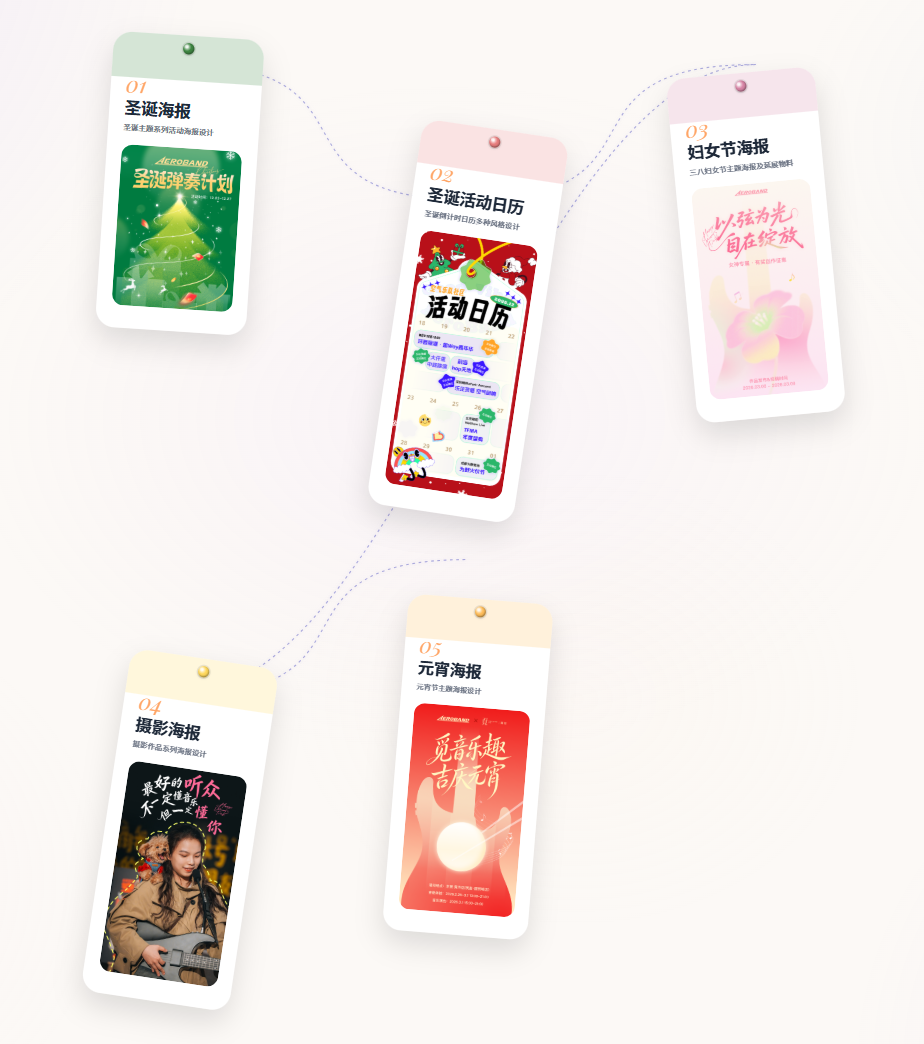
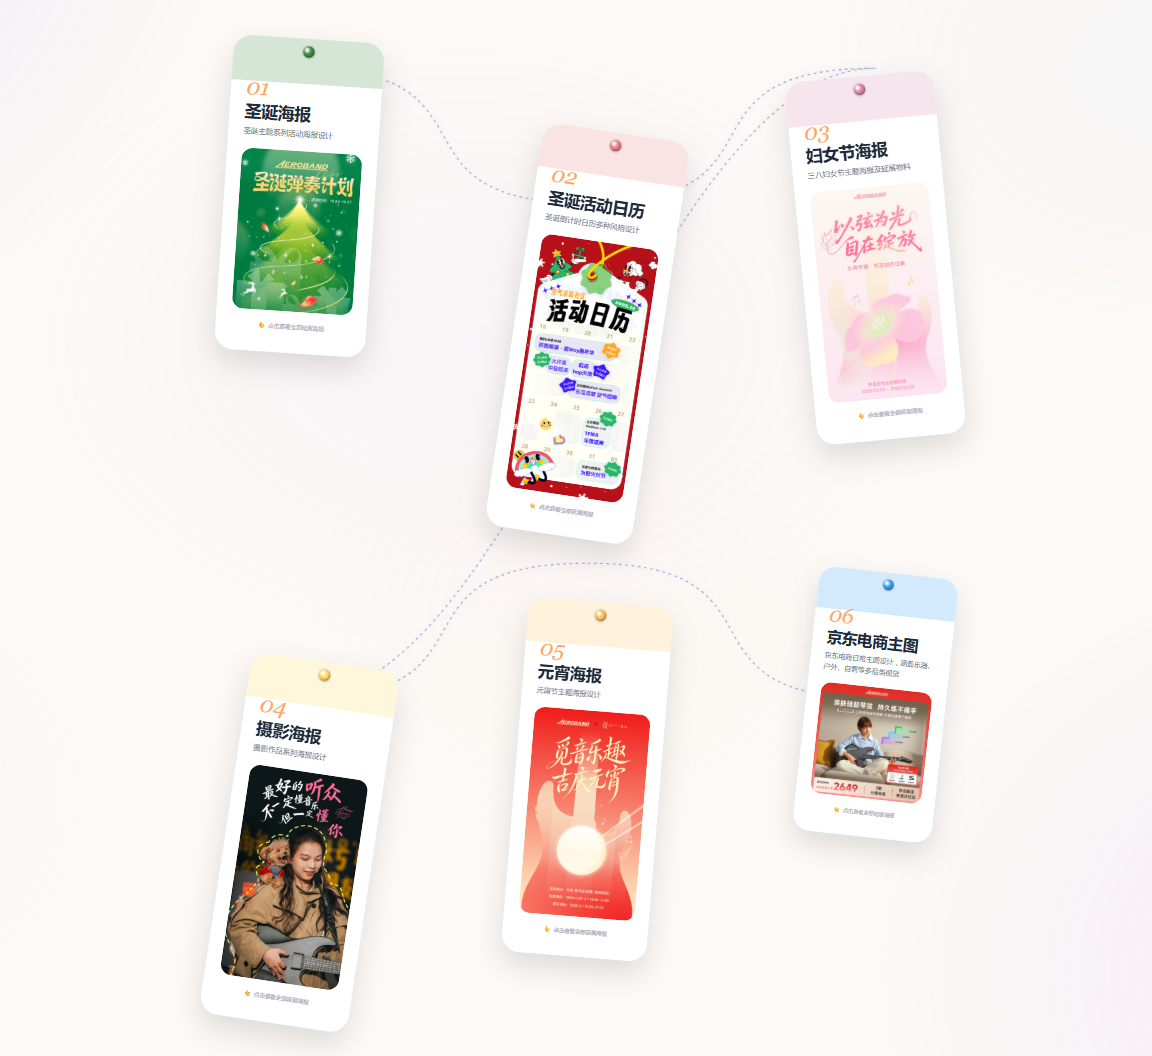
feat: add JD e-commerce poster theme to poster-collection board
- Add jd-ecommerce sticky note with 1 main + 6 extension posters
- Replace poster-collection cover image
- Compress all images to WebP (16.2MB → 972KB, 94% reduction)

diff --git a/src/components/poster-board/data.ts b/src/components/poster-board/data.ts
@@ -8,7 +8,7 @@ export const THEMES: PosterTheme[] = [
     mainPoster: {
       id: 'christmas-main',
       title: '圣诞主海报',
-      imageUrl: '/posters/christmas/main.png',
+      imageUrl: '/posters/christmas/main.webp',
       width: 800,
       height: 1200,
     },
@@ -16,14 +16,14 @@ export const THEMES: PosterTheme[] = [
       {
         id: 'christmas-playlist',
         title: '歌单',
-        imageUrl: '/posters/christmas/playlist.png',
+        imageUrl: '/posters/christmas/playlist.webp',
         width: 800,
         height: 1200,
       },
       {
         id: 'christmas-event',
         title: '活动详情',
-        imageUrl: '/posters/christmas/event-detail.png',
+        imageUrl: '/posters/christmas/event-detail.webp',
         width: 800,
         height: 1200,
       },
@@ -37,7 +37,7 @@ export const THEMES: PosterTheme[] = [
     mainPoster: {
       id: 'advent-main',
       title: '活动日历海报',
-      imageUrl: '/posters/advent-calendar/main.png',
+      imageUrl: '/posters/advent-calendar/main.webp',
       width: 800,
       height: 1200,
     },
@@ -45,21 +45,21 @@ export const THEMES: PosterTheme[] = [
       {
         id: 'advent-style-1',
         title: '风格一',
-        imageUrl: '/posters/advent-calendar/style-1.png',
+        imageUrl: '/posters/advent-calendar/style-1.webp',
         width: 800,
         height: 1200,
       },
       {
         id: 'advent-style-2',
         title: '风格二',
-        imageUrl: '/posters/advent-calendar/style-2.png',
+        imageUrl: '/posters/advent-calendar/style-2.webp',
         width: 800,
         height: 1200,
       },
       {
         id: 'advent-style-3',
         title: '风格三',
-        imageUrl: '/posters/advent-calendar/style-3.png',
+        imageUrl: '/posters/advent-calendar/style-3.webp',
         width: 800,
         height: 1200,
       },
@@ -73,7 +73,7 @@ export const THEMES: PosterTheme[] = [
     mainPoster: {
       id: 'womensday-main',
       title: '妇女节主海报',
-      imageUrl: '/posters/womens-day/main.png',
+      imageUrl: '/posters/womens-day/main.webp',
       width: 800,
       height: 1200,
     },
@@ -81,21 +81,21 @@ export const THEMES: PosterTheme[] = [
       {
         id: 'womensday-playlist',
         title: '歌单详情',
-        imageUrl: '/posters/womens-day/playlist-detail.png',
+        imageUrl: '/posters/womens-day/playlist-detail.webp',
         width: 800,
         height: 1200,
       },
       {
         id: 'womensday-event',
         title: '活动详情',
-        imageUrl: '/posters/womens-day/event-detail.png',
+        imageUrl: '/posters/womens-day/event-detail.webp',
         width: 800,
         height: 1200,
       },
       {
         id: 'womensday-prize',
         title: '活动奖品',
-        imageUrl: '/posters/womens-day/prize-detail.png',
+        imageUrl: '/posters/womens-day/prize-detail.webp',
         width: 800,
         height: 1200,
       },
@@ -109,7 +109,7 @@ export const THEMES: PosterTheme[] = [
     mainPoster: {
       id: 'photo-main',
       title: '摄影海报一',
-      imageUrl: '/posters/photography/poster-1.png',
+      imageUrl: '/posters/photography/poster-1.webp',
       width: 800,
       height: 1200,
     },
@@ -117,35 +117,35 @@ export const THEMES: PosterTheme[] = [
       {
         id: 'photo-2',
         title: '摄影海报二',
-        imageUrl: '/posters/photography/poster-2.png',
+        imageUrl: '/posters/photography/poster-2.webp',
         width: 800,
         height: 1200,
       },
       {
         id: 'photo-3',
         title: '摄影海报三',
-        imageUrl: '/posters/photography/poster-3.png',
+        imageUrl: '/posters/photography/poster-3.webp',
         width: 800,
         height: 1200,
       },
       {
         id: 'photo-4',
         title: '摄影海报四',
-        imageUrl: '/posters/photography/poster-4.png',
+        imageUrl: '/posters/photography/poster-4.webp',
         width: 800,
         height: 1200,
       },
       {
         id: 'photo-5',
         title: '摄影海报五',
-        imageUrl: '/posters/photography/poster-5.png',
+        imageUrl: '/posters/photography/poster-5.webp',
         width: 800,
         height: 1200,
       },
       {
         id: 'photo-6',
         title: '摄影海报六',
-        imageUrl: '/posters/photography/poster-6.png',
+        imageUrl: '/posters/photography/poster-6.webp',
         width: 800,
         height: 1200,
       },
@@ -159,11 +159,68 @@ export const THEMES: PosterTheme[] = [
     mainPoster: {
       id: 'lantern-main',
       title: '元宵主海报',
-      imageUrl: '/posters/lantern-festival/main.png',
+      imageUrl: '/posters/lantern-festival/main.webp',
       width: 800,
       height: 1200,
     },
     extensions: [],
     description: '元宵节主题海报设计',
+  },
+  {
+    id: 'jd-ecommerce',
+    title: '京东电商主图',
+    color: '#2196F3',
+    mainPoster: {
+      id: 'jd-main',
+      title: '硅胶弦乐器',
+      imageUrl: '/posters/jd-ecommerce/main.webp',
+      width: 800,
+      height: 1200,
+    },
+    extensions: [
+      {
+        id: 'jd-ext-2',
+        title: '0基础入门',
+        imageUrl: '/posters/jd-ecommerce/ext-2.webp',
+        width: 800,
+        height: 1200,
+      },
+      {
+        id: 'jd-ext-6',
+        title: '露营好物',
+        imageUrl: '/posters/jd-ecommerce/ext-6.webp',
+        width: 800,
+        height: 1200,
+      },
+      {
+        id: 'jd-ext-3',
+        title: '三阶段成长',
+        imageUrl: '/posters/jd-ecommerce/ext-3.webp',
+        width: 800,
+        height: 1200,
+      },
+      {
+        id: 'jd-ext-4',
+        title: '自营好物',
+        imageUrl: '/posters/jd-ecommerce/ext-4.webp',
+        width: 800,
+        height: 1200,
+      },
+      {
+        id: 'jd-ext-5',
+        title: '自营优选',
+        imageUrl: '/posters/jd-ecommerce/ext-5.webp',
+        width: 800,
+        height: 1200,
+      },
+      {
+        id: 'jd-ext-1',
+        title: '自学有乐趣',
+        imageUrl: '/posters/jd-ecommerce/ext-1.webp',
+        width: 800,
+        height: 1200,
+      },
+    ],
+    description: '京东电商日常主图设计，涵盖乐器、户外、自营等多品类视觉',
   },
 ];

diff --git a/src/components/poster-board/StickyNote.tsx b/src/components/poster-board/StickyNote.tsx
@@ -25,6 +25,7 @@ const StickyNote: React.FC<StickyNoteProps> = ({ theme, onClick, index }) => {
     { y: 80, z: 15 },    // index 2: 妇女节 — 微沉
     { y: 280, z: 25 },   // index 3: 摄影 — 下沉最多
     { y: 140, z: 18 },   // index 4: 元宵 — 中间值
+    { y: 60, z: 10 },    // index 5: 京东电商 — 微沉
   ];
   const stagger = staggerMap[index] ?? { y: 0, z: 10 };
   const left = (index % 3) * 640 + 3600;
@@ -73,6 +74,10 @@ const StickyNote: React.FC<StickyNoteProps> = ({ theme, onClick, index }) => {
             className="w-full h-auto block"
             referrerPolicy="no-referrer"
           />
+        </div>
+        <div className="flex items-center justify-center gap-1.5 text-xs text-gray-400 group-hover:text-gray-600 transition-colors">
+          <span>👆</span>
+          <span>点击查看全部延展海报</span>
         </div>
       </div>
     </motion.div>
